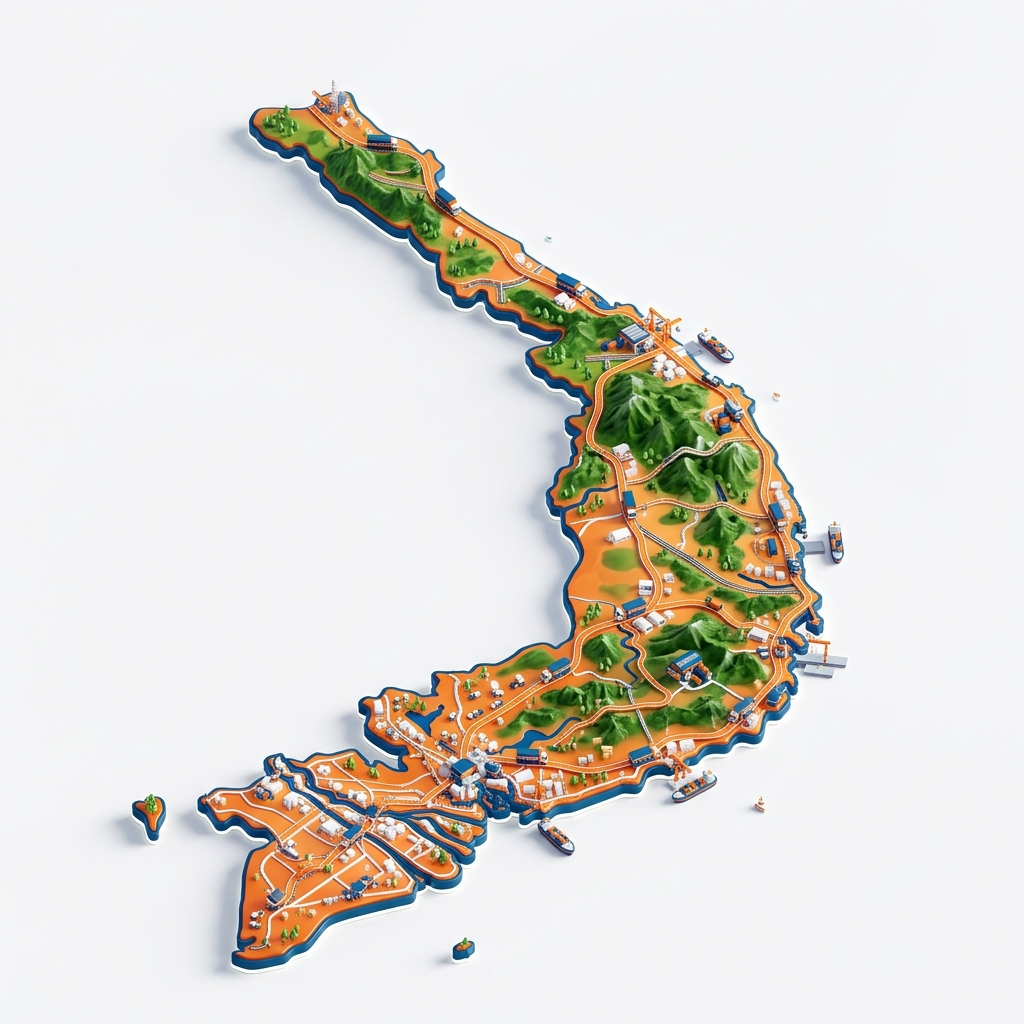
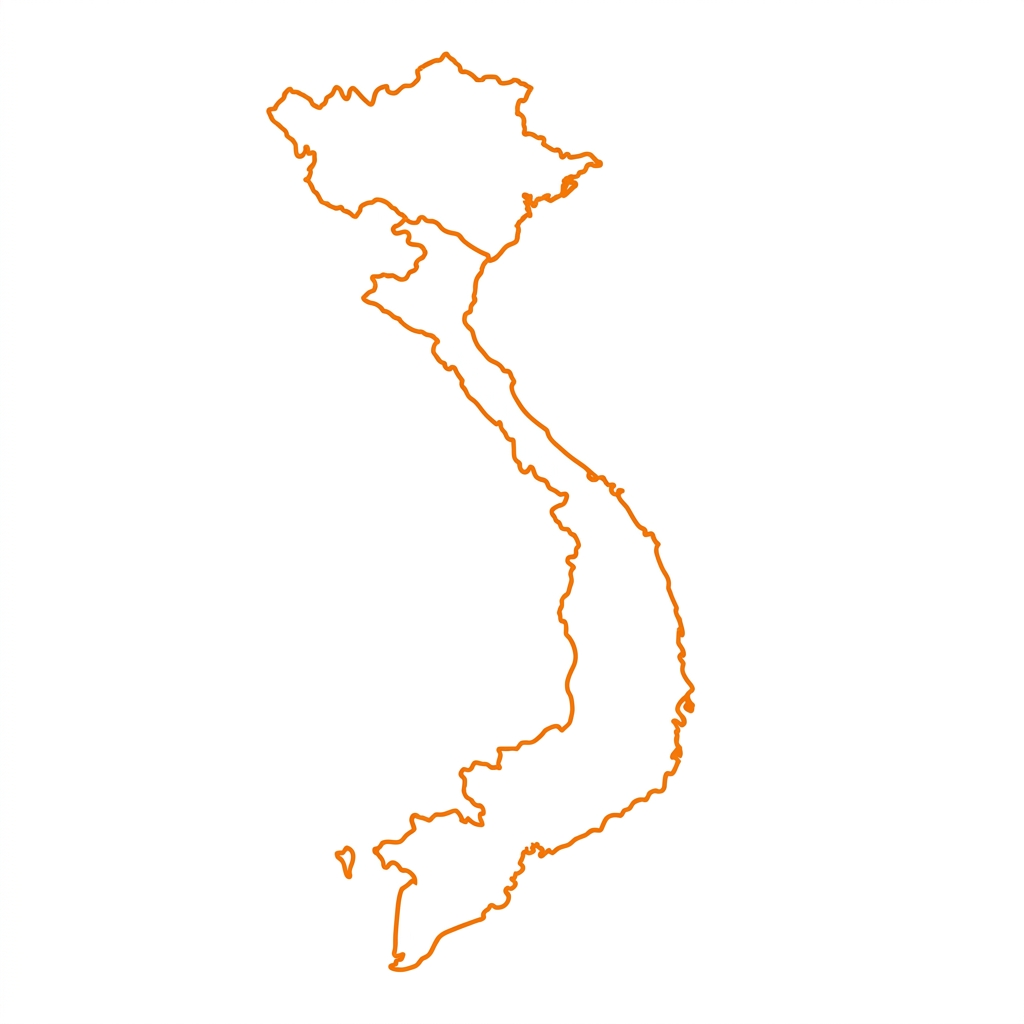
Change map to watermark and add new image

Changed region(s): [[0.0938, 0.0312, 0.8438, 0.9688], [0.7188, 0.7812, 0.75, 0.8125]]

diff --git a/dashboard.html b/dashboard.html
@@ -480,21 +480,21 @@
 
         <!-- ================= HOME VIEW ================= -->
         <div id="view-home" class="view-container active">
-            <div style="background: var(--white) url('map_ttb.png?v=3') no-repeat center center; background-size: 800px; border-radius: 12px; padding: 2rem; box-shadow: 0 4px 20px rgba(0,0,0,0.03); border: 1px solid var(--border-color); text-align: center; margin-bottom: 2rem; min-height: 800px; position: relative;">
-                <div style="background: rgba(255, 255, 255, 0.85); border-radius: 8px; padding: 1rem; display: inline-block;">
-                    <h2 style="color: var(--ghn-orange); margin-bottom: 0.5rem; font-size: 1.8rem; text-transform: uppercase;">BẢN ĐỒ VÙNG TRUNG TRUNG BỘ</h2>
-                    <p style="color: var(--text-gray); font-size: 1.1rem; font-style: italic; margin: 0;">
-                        (Khu vực hiển thị Biểu đồ và Cảnh báo hiệu suất dựa trên dữ liệu lịch sử sẽ được đặt chồng lên tại đây)
-                    </p>
-                </div>
+            <div style="background-color: var(--white); border-radius: 12px; padding: 2rem; box-shadow: 0 4px 20px rgba(0,0,0,0.03); border: 1px solid var(--border-color); text-align: center; margin-bottom: 2rem; min-height: 800px; position: relative; overflow: hidden;">
                 
-                <!-- Placeholders cho các biểu đồ -->
-                <div style="display: grid; grid-template-columns: 1fr 1fr; gap: 2rem; margin-top: 3rem; text-align: left;">
-                    <div style="background: rgba(255, 255, 255, 0.9); border: 1px dashed #cbd5e1; padding: 2rem; border-radius: 12px; height: 300px; display: flex; align-items: center; justify-content: center; color: var(--text-gray); box-shadow: 0 4px 10px rgba(0,0,0,0.05);">
-                        <i class="fa-solid fa-chart-line" style="font-size: 2rem; margin-right: 1rem; color: #94a3b8;"></i> Khu vực Biểu đồ Tỷ lệ GTC 7 Ngày
-                    </div>
-                    <div style="background: rgba(255, 255, 255, 0.9); border: 1px dashed #cbd5e1; padding: 2rem; border-radius: 12px; height: 300px; display: flex; align-items: center; justify-content: center; color: var(--text-gray); box-shadow: 0 4px 10px rgba(0,0,0,0.05);">
-                        <i class="fa-solid fa-triangle-exclamation" style="font-size: 2rem; margin-right: 1rem; color: #ef4444;"></i> Cảnh báo AM có phong độ giảm sút
+                <!-- Lớp nền chìm (Watermark Map) -->
+                <div style="position: absolute; top: 0; left: 0; right: 0; bottom: 0; background: url('map_ttb.png?v=5') no-repeat center center; background-size: 800px; opacity: 0.15; pointer-events: none; z-index: 0;"></div>
+                
+                <!-- Lớp nội dung đè lên trên -->
+                <div style="position: relative; z-index: 1;">
+                    <!-- Placeholders cho các biểu đồ -->
+                    <div style="display: grid; grid-template-columns: 1fr 1fr; gap: 2rem; text-align: left;">
+                        <div style="background: rgba(255, 255, 255, 0.85); border: 1px dashed #cbd5e1; padding: 2rem; border-radius: 12px; height: 350px; display: flex; align-items: center; justify-content: center; color: var(--text-gray); box-shadow: 0 4px 15px rgba(0,0,0,0.04);">
+                            <i class="fa-solid fa-chart-line" style="font-size: 2rem; margin-right: 1rem; color: #94a3b8;"></i> Khu vực Biểu đồ Tỷ lệ GTC 7 Ngày
+                        </div>
+                        <div style="background: rgba(255, 255, 255, 0.85); border: 1px dashed #cbd5e1; padding: 2rem; border-radius: 12px; height: 350px; display: flex; align-items: center; justify-content: center; color: var(--text-gray); box-shadow: 0 4px 15px rgba(0,0,0,0.04);">
+                            <i class="fa-solid fa-triangle-exclamation" style="font-size: 2rem; margin-right: 1rem; color: #ef4444;"></i> Cảnh báo AM có phong độ giảm sút
+                        </div>
                     </div>
                 </div>
             </div>